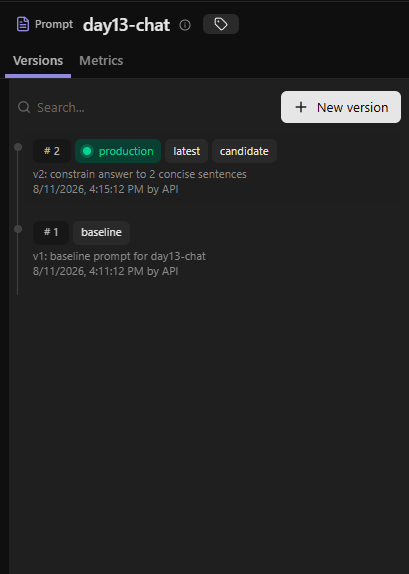
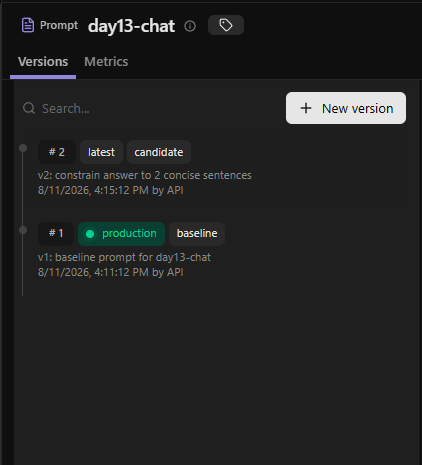
Fill in remaining REPORT.md sections and fix rollback evidence screenshots

diff --git a/submission/REPORT.md b/submission/REPORT.md
@@ -4,37 +4,48 @@
 
 - Tên nhóm: FIFO
 - Repository URL: https://github.com/yuh3705/Day13-K4-Observability-FIFO
-- Commit SHA cuối:
-- Thành viên và vai trò:
+- Commit SHA cuối: `3965a2f1844e3a4587426c0537eeef88d5a04f72` (cập nhật lại sau lần commit cuối cùng trước khi nộp)
+- Thành viên và vai trò: _(điền tên + vai trò từng thành viên)_
 
 ## 2. Kết quả kỹ thuật
 
-- Điểm `validate_logs.py`: 100/100
-- Tổng số traces: 22
+- Điểm `validate_logs.py`: 100/100 (78 log records, 0 field thiếu, 0 enrichment thiếu, 33 correlation ID duy nhất)
+- Tổng số traces: 62 (kiểm tra qua Langfuse API lúc viết báo cáo; con số tăng dần theo mỗi lần chạy `/chat` hoặc `scripts/load_test.py`)
 - Số PII leak còn lại: 0
-- Link/đường dẫn dashboard:
+- Link/đường dẫn dashboard: https://jp.cloud.langfuse.com/project/cmsocv6n7002sad0iijbq5imz/dashboards (dashboard "Day 13 AI Observability")
 
 ## 3. Logging và tracing
 
-- Evidence correlation ID:
-- Evidence PII redaction:
-- Evidence trace waterfall:
-- Giải thích một span đáng chú ý:
+- Evidence correlation ID: `submission/evidence/correlation_id.png`
+- Evidence PII redaction: `submission/evidence/PII_log.png`
+- Evidence trace waterfall: `submission/evidence/trace_detail_optional.png` (waterfall `run` → `retrieve` → `generate`, kèm Graph view). *Lưu ý: `submission/evidence/trace_detail.png` là ảnh cũ, chụp trước khi gắn `@observe` lên `retrieve`/`generate` nên chỉ có một span `run` duy nhất — không dùng ảnh này làm evidence waterfall.*
+- Giải thích một span đáng chú ý: Span `retrieve` (kiểu `RETRIEVER`, con của `run`) là span quan trọng nhất để chẩn đoán sự cố — nó bọc lệnh gọi `app/mock_rag.py:retrieve()`, nơi hai incident `rag_slow` (thêm `time.sleep(2.5)`) và `tool_fail` (raise `RuntimeError`) được mô phỏng. Vì `retrieve` và `generate` là hai span tách biệt (không còn gộp chung vào một `generation` như instrumentation ban đầu), khi bật `rag_slow` thì đúng span `retrieve` hiển thị latency tăng đột biến (~2.5s) trong khi `generate` không đổi (~0.15s) — đây chính là bằng chứng dùng trong mục 6.
 
 ## 4. Prompt versioning
 
-- Prompt name:
-- Version/label baseline:
-- Version/label candidate:
+- Prompt name: `day13-chat`
+- Version/label baseline: v1 — labels `baseline`, `production` (nội dung: `Feature={{feature}}\nDocs={{docs}}\nQuestion={{message}}`)
+- Version/label candidate: v2 — labels `candidate`, `latest` (nội dung: thêm dòng `Answer in at most 2 concise sentences.`)
 - Trace ID của mỗi version:
-- Bằng chứng đổi label hoặc rollback:
+  - v1 / label `baseline`: `1393ad88cf8dfb9ec1c5ec41a455c59f`
+  - v2 / label `candidate`: `3eaea44105dba5921a53be422e96d316`
+  - v2 khi tạm giữ label `production`: `93c239cc251c354dfb364b6d181c0996`
+  - v1 sau khi rollback `production`: `c8af889f3fb6ae5058f43c0dc18bf99d`
+- Bằng chứng đổi label hoặc rollback: `submission/evidence/version_before.png` (production đang ở v2: `latest, candidate` | v1 chỉ có `baseline`) → `submission/evidence/version_after.png` (rollback: production quay lại v1: `production, baseline` | v2 còn `latest, candidate`). Đã xác minh khớp với trạng thái thật qua API.
 
 ## 5. Dashboard, SLO và alerts
 
-- Kết quả `validate_dashboard.py`:
-- Evidence dashboard:
-- SLO đã chọn và lý do:
-- Alert rules và runbook:
+- Kết quả `validate_dashboard.py`: HỢP LỆ — 6/6 panel có trong dashboard contract
+- Evidence dashboard: `submission/evidence/dashboard.jpeg` (Latency, Traffic, Error, Cost, Tokens, Quality — công cụ: Langfuse Custom Dashboards, chi tiết từng widget xem [docs/dashboard-spec.md](../docs/dashboard-spec.md))
+- SLO đã chọn và lý do (`config/slo.yaml`, window 28 ngày):
+  - `latency_p95_ms` ≤ 3000ms (target 99.5%) — ngưỡng chấp nhận được cho một chat response trước khi cảm giác "treo".
+  - `error_rate_pct` ≤ 2% (target 99.0%) — hệ thống lab dùng mock LLM/RAG nên lỗi phải hiếm, hầu hết request phải thành công.
+  - `daily_cost_usd` ≤ 2.5 (target 100%) — giới hạn ngân sách demo/lab, dễ phát hiện cost spike do incident hoặc bug.
+  - `quality_score_avg` ≥ 0.75 (target 95%) — heuristic quality score phải duy trì mức chấp nhận được, không để một prompt/model change làm giảm chất lượng âm thầm.
+- Alert rules và runbook (`config/alert_rules.yaml`, chi tiết từng bước điều tra tại [docs/alerts.md](../docs/alerts.md)):
+  1. `high_latency_p95` (warning) — `latency_p95 > 3000ms` duy trì 5 phút, owner `on-call-engineer`.
+  2. `elevated_error_rate` (critical) — `error_rate_pct > 5%` duy trì 3 phút, owner `on-call-engineer`.
+  3. `cost_budget_exceeded` (warning) — `daily_cost_usd > 2.5`, owner `team-lead`.
 
 ## 6. Điều tra challenge
 
